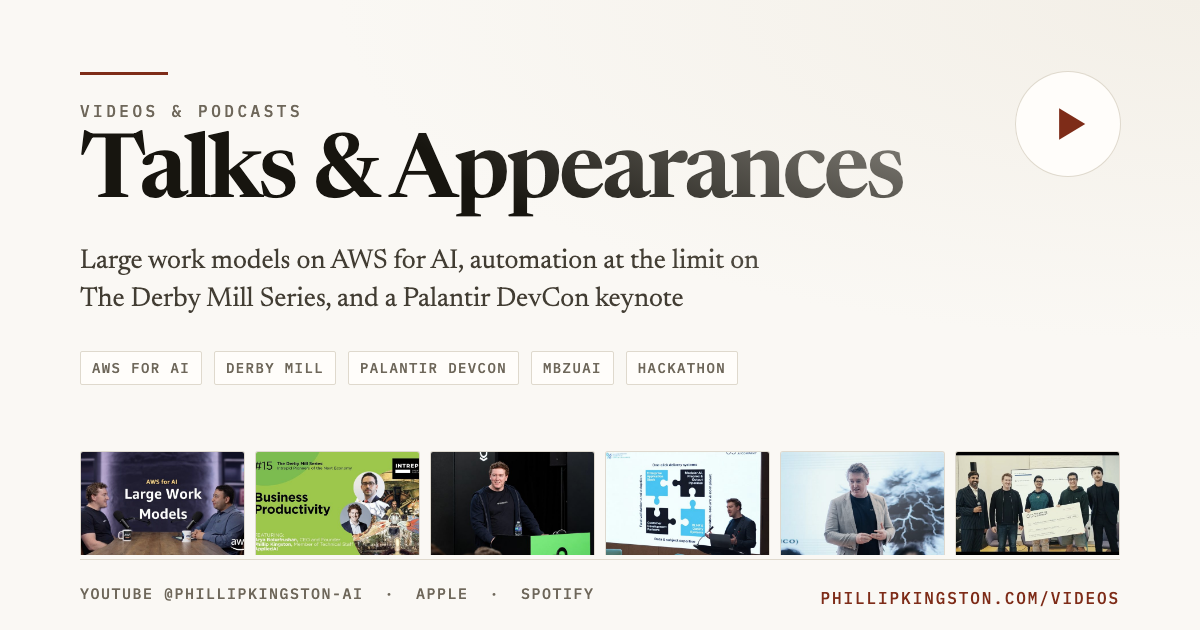
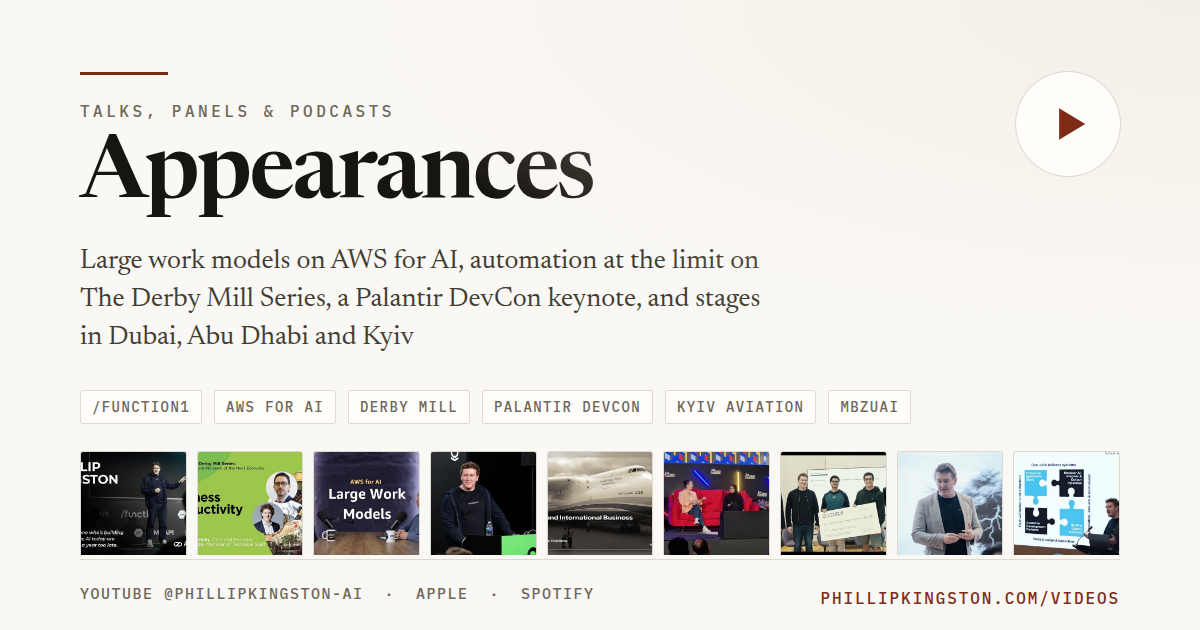
The page is called Appearances, everywhere
It answered to two names: "Videos & Podcasts" in the nav, the homepage
heading, the title tag and its own eyebrow, and "Talks & Appearances"
in its h1 and on the share card. Neither was right any more either,
since the page now carries a lecture, a panel and a conference stage
with no video behind them.

So: Appearances, in the rail, the homepage heading, the link in
Connect, the title tag, og:title, twitter:title, both image alts, the
ItemList name and the page's own eyebrow. "All videos & podcasts"
becomes "All appearances", and the homepage section id follows its
heading.

The h1 stays a description rather than a second copy of the name,
which is what heritage and the history page do: eyebrow names the
page, h1 says what is on it.

The share card is regenerated, and takes the inversion og-card.html
already uses -- the descriptor is the kicker, the name is the
headline -- because at thumbnail size one short word survives and a
clause does not, and the old long headline ran under the play mark.
Its strip was six frames in an order the page abandoned; it is now all
nine in page order, which is what its own comment always promised.

The URL stays /videos/. Renaming it would break every link already
pointing at the page for no gain the reader can see.

Claude-Session: https://claude.ai/code/session_01BRr7DR4M3xtyfFbBvMRAqL

diff --git a/videos/index.html b/videos/index.html
@@ -4,7 +4,7 @@
     <meta charset="UTF-8">
     <meta name="viewport" content="width=device-width, initial-scale=1.0">
 
-    <title>Videos &amp; Podcasts - Talks by Phillip Kingston</title>
+    <title>Appearances - Talks by Phillip Kingston</title>
     <meta name="description" content="Podcasts, keynotes and appearances by Phillip Kingston: Opus and large work models on the AWS for AI podcast, workflow automation at the limit on The Derby Mill Series, the AppliedAI keynote at Palantir DevCon, a public lecture in Kyiv, and conference stages and sessions across the UAE.">
     <meta name="keywords" content="Phillip Kingston, AppliedAI, Opus, large work model, AWS for AI podcast, Derby Mill Series, Palantir DevCon, National University Kyiv Aviation Institute, MBZUAI, Decoding Data Science, Step Conference, function1, workflow automation">
     <meta name="author" content="Phillip Kingston">
@@ -15,19 +15,19 @@
 
     <meta property="og:type" content="website">
     <meta property="og:locale" content="en_GB">
-    <meta property="og:title" content="Videos &amp; Podcasts - Talks by Phillip Kingston">
+    <meta property="og:title" content="Appearances - Talks by Phillip Kingston">
     <meta property="og:description" content="Podcasts, keynotes and appearances by Phillip Kingston: Opus and large work models on the AWS for AI podcast, workflow automation at the limit on The Derby Mill Series, the AppliedAI keynote at Palantir DevCon, a public lecture in Kyiv, and conference stages and sessions across the UAE.">
     <meta property="og:image" content="https://www.phillipkingston.com/img/og-videos-1200x630.png">
     <meta property="og:image:width" content="1200">
     <meta property="og:image:height" content="630">
-    <meta property="og:image:alt" content="Videos and podcasts by Phillip Kingston">
+    <meta property="og:image:alt" content="Appearances by Phillip Kingston">
     <meta property="og:url" content="https://www.phillipkingston.com/videos/">
     <meta property="og:site_name" content="Phillip Kingston">
     <meta name="twitter:card" content="summary_large_image">
-    <meta name="twitter:title" content="Videos &amp; Podcasts - Talks by Phillip Kingston">
+    <meta name="twitter:title" content="Appearances - Talks by Phillip Kingston">
     <meta name="twitter:description" content="AWS for AI on large work models, The Derby Mill Series on workflow automation at the limit, and the AppliedAI keynote at Palantir DevCon.">
     <meta name="twitter:image" content="https://www.phillipkingston.com/img/og-videos-1200x630.png">
-    <meta name="twitter:image:alt" content="Videos and podcasts by Phillip Kingston">
+    <meta name="twitter:image:alt" content="Appearances by Phillip Kingston">
     <meta name="twitter:site" content="@phillipkingston">
     <meta name="twitter:creator" content="@phillipkingston">
 
@@ -65,8 +65,8 @@
             <div class="masthead__grid">
                 <div class="masthead__text">
                     <a class="backlink" href="/">&#8592; Phillip Kingston</a>
-                    <p class="eyebrow">Videos &amp; Podcasts</p>
-                    <h1>Talks &amp; Appearances</h1>
+                    <p class="eyebrow">Appearances</p>
+                    <h1>Talks, panels and podcasts, 2024&#8211;2025</h1>
                     <p class="lede">Two long conversations on large work models and the limits of automated workflows, a keynote on generating and executing them, a public lecture in Kyiv, and the conference stages and short records of the AppliedAI team across the United Arab Emirates.</p>
                 </div>
                 <a class="channel-cta" href="https://www.youtube.com/@phillipkingston-ai" target="_blank" rel="noopener">
@@ -331,7 +331,7 @@
 {
       "@context": "https://schema.org",
       "@type": "ItemList",
-      "name": "Talks, podcasts and appearances by Phillip Kingston",
+      "name": "Appearances by Phillip Kingston",
       "url": "https://www.phillipkingston.com/videos/",
       "numberOfItems": 9,
       "itemListOrder": "https://schema.org/ItemListOrderDescending",

diff --git a/index.html b/index.html
@@ -92,7 +92,7 @@
                     <li><a href="#supervisory-control"><span class="num">08</span> <span>Supervisory Control</span></a></li>
                     <li><a href="#proof-carrying"><span class="num">09</span> <span>Proof-Carrying Workflows</span></a></li>
                     <li><a href="#papers"><span class="num">&#8212;</span> <span>Papers</span></a></li>
-                    <li><a href="/videos/"><span class="num">&#8212;</span> <span>Videos &amp; Podcasts</span></a></li>
+                    <li><a href="/videos/"><span class="num">&#8212;</span> <span>Appearances</span></a></li>
                     <li><a href="#connect"><span class="num">&#8212;</span> <span>Connect</span></a></li>
                 </ol>
                 <button class="theme" type="button" id="theme-toggle" hidden>
@@ -398,10 +398,10 @@
                     </ul>
                 </section>
 
-                <section class="section" id="videos" aria-labelledby="videos-h">
+                <section class="section" id="appearances" aria-labelledby="appearances-h">
                     <div class="section__head">
                         <p class="section__num">&#8212;</p>
-                        <h2 id="videos-h">Videos &amp; Podcasts</h2>
+                        <h2 id="appearances-h">Appearances</h2>
                     </div>
                     <ul class="watch">
                         <li><a href="/videos/#function1">
@@ -477,7 +477,7 @@
                             </span>
                         </a></li>
                     </ul>
-                    <p class="watch__all"><a href="/videos/">All videos &amp; podcasts &#8594;</a></p>
+                    <p class="watch__all"><a href="/videos/">All appearances &#8594;</a></p>
                 </section>
 
                 <section class="section" id="connect" aria-labelledby="connect-h">
@@ -518,7 +518,7 @@
                                 <li><a href="https://bsky.app/profile/phillipkingston.bsky.social" target="_blank" rel="noopener"><span class="links__name">Bluesky</span><span class="links__host">bsky.app</span></a></li>
                                 <li><a href="https://medium.com/@phillip.kingston_91952" target="_blank" rel="noopener"><span class="links__name">Medium</span><span class="links__host">medium.com</span></a></li>
                                 <li><a href="https://www.youtube.com/@phillipkingston-ai" target="_blank" rel="noopener"><span class="links__name">YouTube</span><span class="links__host">youtube.com</span></a></li>
-                                <li><a href="/videos/"><span class="links__name">Videos</span><span class="links__host">talks &amp; appearances</span></a></li>
+                                <li><a href="/videos/"><span class="links__name">Appearances</span><span class="links__host">talks, panels &amp; podcasts</span></a></li>
                             </ul>
                         </div>
                         <div class="link-group">

diff --git a/tools/og-card-videos.html b/tools/og-card-videos.html
@@ -7,9 +7,10 @@
   root-absolute, so it only renders correctly when served from the site root.
   Not linked from the site.
 
-  The strip along the bottom is the six poster frames the page itself uses,
-  in page order, so the card and the page cannot drift apart without someone
-  noticing: a poster removed from img/videos/ leaves a hole here too.
+  The strip along the bottom is every poster frame the page itself uses, in
+  page order, so the card and the page cannot drift apart without someone
+  noticing: a poster removed from img/videos/ leaves a hole here too, and an
+  entry added to the page leaves the strip one short.
 -->
 <html lang="en"><head><meta charset="utf-8">
 <style>
@@ -48,22 +49,25 @@ h1{font-size:88px;font-weight:600;letter-spacing:-.028em;line-height:.95;margin-
 <div class="play"><svg viewBox="0 0 16 16"><path d="M3 1.4 14 8 3 14.6Z"/></svg></div>
 <div>
   <div class="rule"></div>
-  <p class="eyebrow">Videos &amp; Podcasts</p>
-  <h1>Talks &amp; Appearances</h1>
-  <p class="aff">Large work models on AWS for AI, automation at the limit on<br>The Derby Mill Series, and a Palantir DevCon keynote</p>
+  <p class="eyebrow">Talks, panels &amp; podcasts</p>
+  <h1>Appearances</h1>
+  <p class="aff">Large work models on AWS for AI, automation at the limit on<br>The Derby Mill Series, a Palantir DevCon keynote, and stages<br>in Dubai, Abu Dhabi and Kyiv</p>
   <div class="topics">
-    <span>AWS for AI</span><span>Derby Mill</span><span>Palantir DevCon</span>
-    <span>MBZUAI</span><span>Hackathon</span>
+    <span>/function1</span><span>AWS for AI</span><span>Derby Mill</span>
+    <span>Palantir DevCon</span><span>Kyiv Aviation</span><span>MBZUAI</span>
   </div>
 </div>
 <div>
   <div class="strip">
-    <figure><img src="/img/videos/b80GKpEcr0M-640.jpg" alt=""></figure>
+    <figure><img src="/img/videos/function1-2025-cover-640.jpg" alt=""></figure>
     <figure><img src="/img/videos/P8IVkxhXCw8-640.jpg" alt=""></figure>
+    <figure><img src="/img/videos/b80GKpEcr0M-640.jpg" alt=""></figure>
     <figure><img src="/img/videos/palantir-cover-640.jpg" alt=""></figure>
-    <figure><img src="/img/videos/mbzuai-cover-640.jpg" alt=""></figure>
-    <figure><img src="/img/videos/decoding-data-science-cover-640.jpg" alt=""></figure>
+    <figure><img src="/img/videos/kyiv-aviation-cover-640.jpg" alt=""></figure>
+    <figure><img src="/img/videos/step-2024-cover-640.jpg" alt=""></figure>
     <figure><img src="/img/videos/PrUwBkPCvXA-640.jpg" alt=""></figure>
+    <figure><img src="/img/videos/decoding-data-science-cover-640.jpg" alt=""></figure>
+    <figure><img src="/img/videos/mbzuai-cover-640.jpg" alt=""></figure>
   </div>
   <div class="foot">
     <p class="ids">YOUTUBE @PHILLIPKINGSTON-AI &nbsp;·&nbsp; APPLE &nbsp;·&nbsp; SPOTIFY</p>
